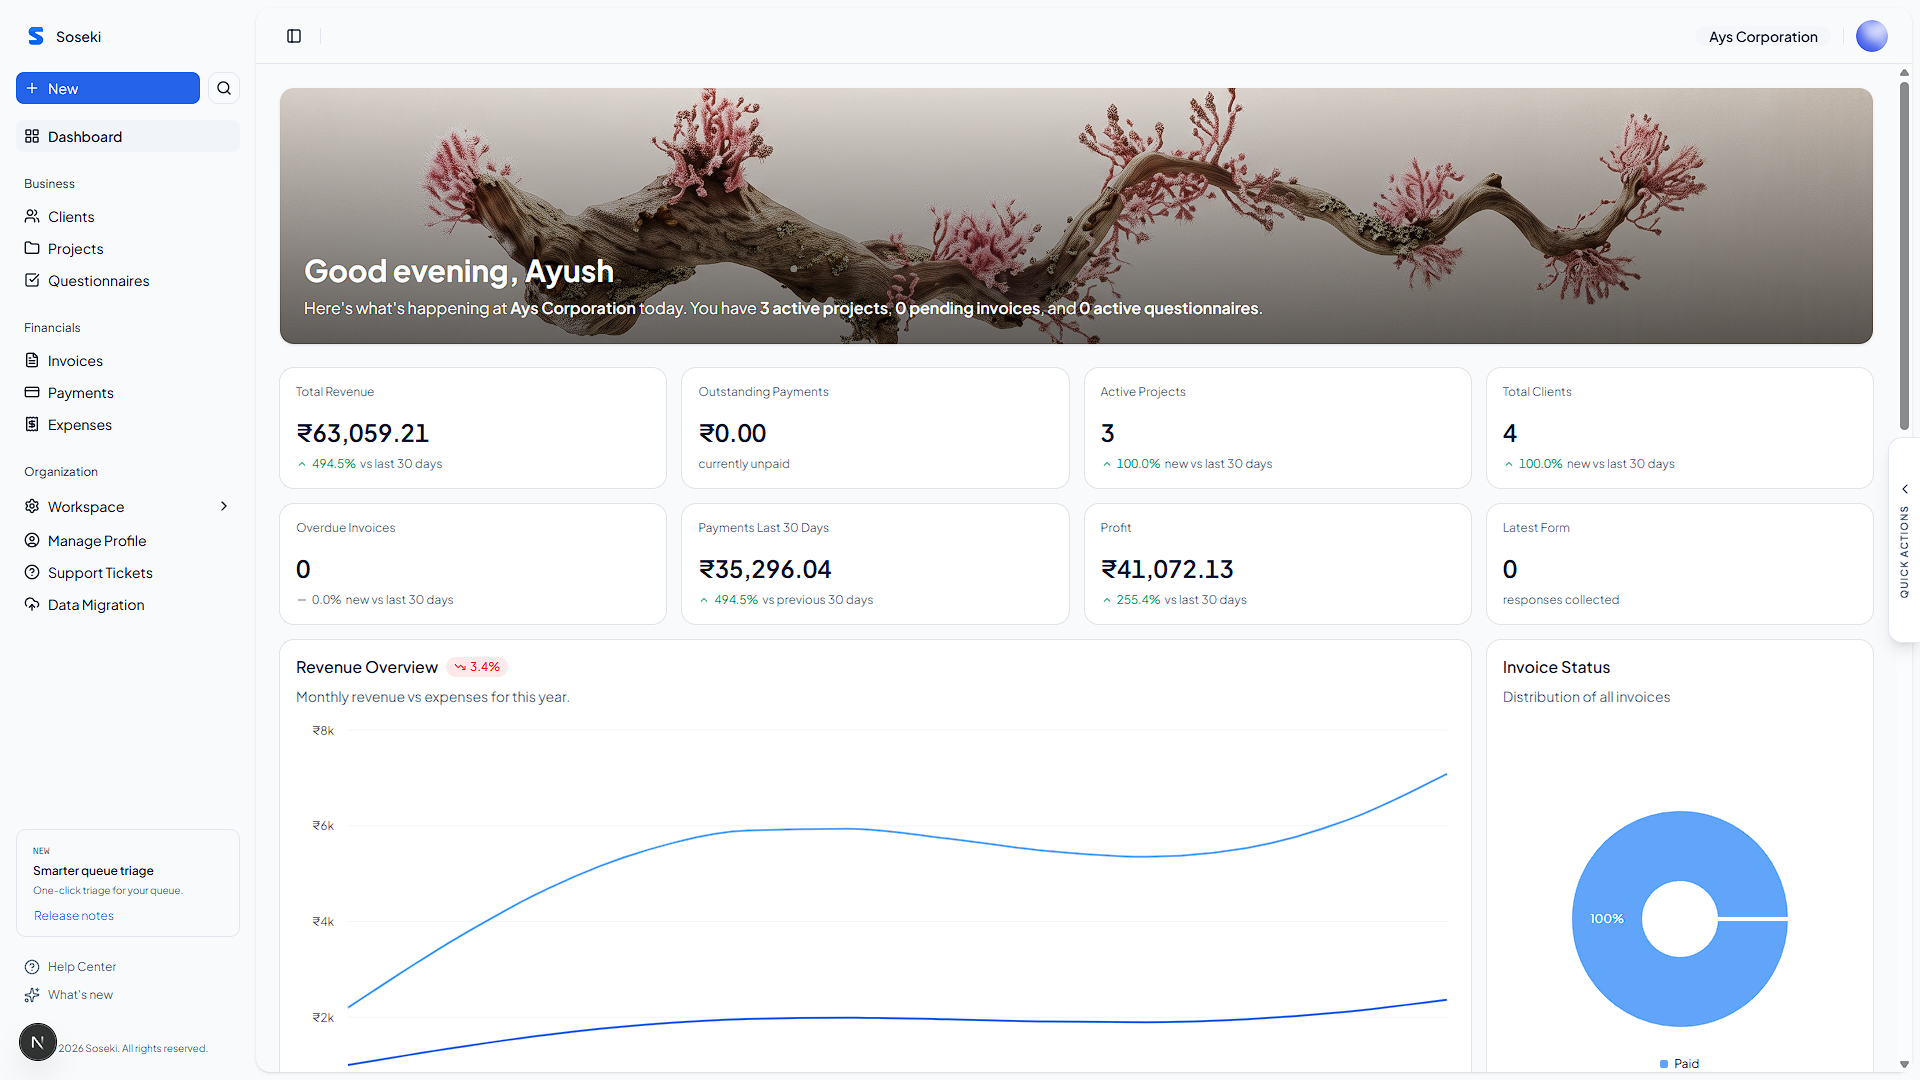
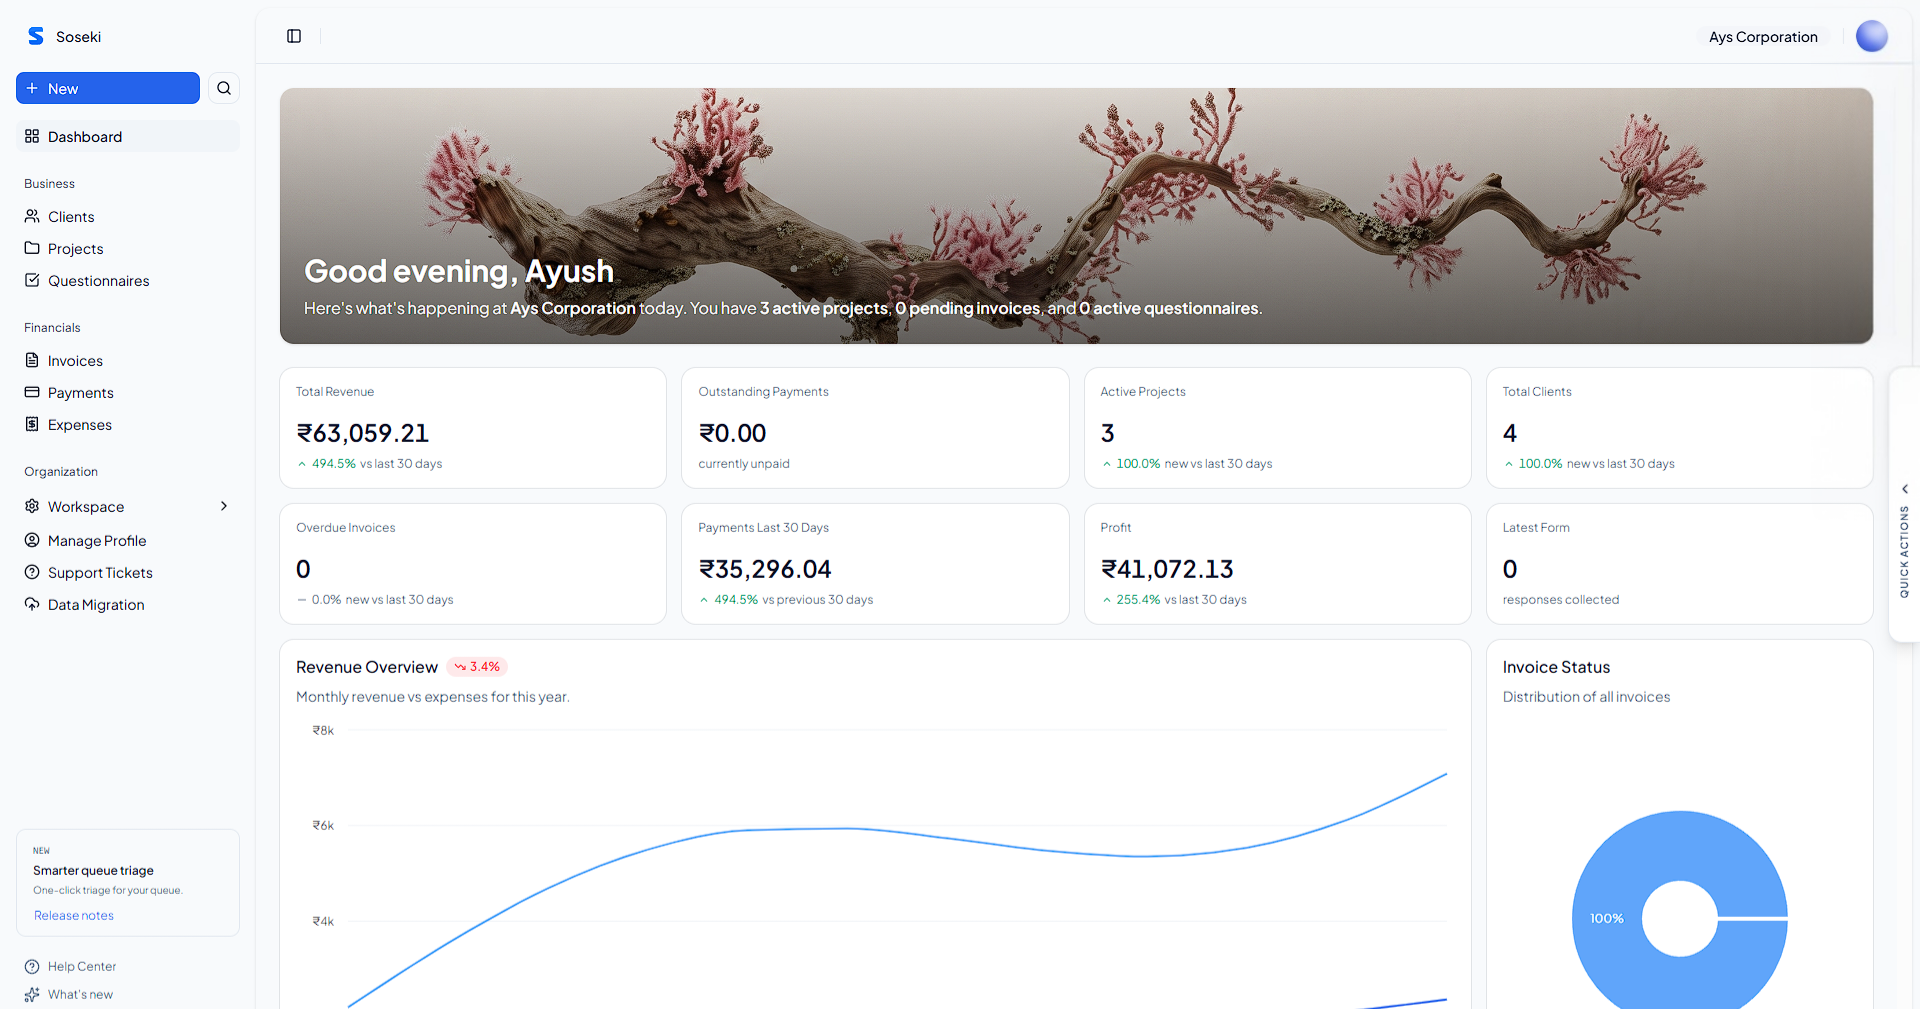
feat: implement landing page with hero section, responsive navigation, and modular components

diff --git a/frontend/src/components/mobile-nav.jsx b/frontend/src/components/mobile-nav.jsx
@@ -1,57 +1,107 @@
+"use client";
+
 import { cn } from "@/lib/utils";
-import React from "react";
-import { Button } from "@/components/ui/button";
-import { Portal, PortalBackdrop } from "@/components/portal";
+import React, { useEffect, useState } from "react";
+import { createPortal } from "react-dom";
+import { Button, buttonVariants } from "@/components/ui/button";
 import { navLinks } from "@/components/header";
 import { XIcon, MenuIcon } from "lucide-react";
+import { Logo } from "@/components/logo";
+import Link from "next/link";
 
 export function MobileNav() {
-	const [open, setOpen] = React.useState(false);
+  const [open, setOpen] = useState(false);
+  const [mounted, setMounted] = useState(false);
 
-	return (
-        <div className="md:hidden">
-            <Button
-                aria-controls="mobile-menu"
-                aria-expanded={open}
-                aria-label="Toggle menu"
-                className="md:hidden"
-                onClick={() => setOpen(!open)}
-                size="icon"
-                variant="outline">
-				{open ? (
-					<XIcon className="size-4.5" />
-				) : (
-					<MenuIcon className="size-4.5" />
-				)}
-			</Button>
-            {open && (
-				<Portal className="top-14" id="mobile-menu">
-					<PortalBackdrop />
-					<div
-                        className={cn(
-                            "data-[slot=open]:zoom-in-97 ease-out data-[slot=open]:animate-in",
-                            "size-full p-4"
-                        )}
-                        data-slot={open ? "open" : "closed"}>
-						<div className="grid gap-y-2">
-							{navLinks.map((link) => (
-								<Button
-                                    className="justify-start"
-                                    key={link.label}
-                                    variant="ghost"
-                                    render={<a href={link.href} />}
-                                    nativeButton={false}>{link.label}</Button>
-							))}
-						</div>
-						<div className="mt-12 flex flex-col gap-2">
-							<Button className="w-full" variant="outline">
-								Sign In
-							</Button>
-							<Button className="w-full">Get Started</Button>
-						</div>
-					</div>
-				</Portal>
-			)}
-        </div>
-    );
+  useEffect(() => {
+    setMounted(true);
+  }, []);
+
+  // Prevent scrolling when open
+  useEffect(() => {
+    if (open) {
+      document.body.style.overflow = "hidden";
+    } else {
+      document.body.style.overflow = "";
+    }
+    return () => {
+      document.body.style.overflow = "";
+    };
+  }, [open]);
+
+  return (
+    <div className="md:hidden">
+      <Button
+        aria-controls="mobile-menu"
+        aria-expanded={open}
+        aria-label="Toggle menu"
+        className="md:hidden"
+        onClick={() => setOpen(true)}
+        size="icon"
+        variant="ghost"
+      >
+        <MenuIcon className="size-5" />
+      </Button>
+
+      {open && mounted && createPortal(
+        <div className="fixed inset-0 z-[99999] flex items-center justify-center p-4 sm:p-6" id="mobile-menu">
+          {/* Backdrop */}
+          <div
+            className="absolute inset-0 z-40 bg-slate-900/20 backdrop-blur-sm animate-in fade-in duration-200"
+            onClick={() => setOpen(false)}
+          />
+
+          {/* Modal Card */}
+          <div
+            className="relative z-50 flex w-full max-w-sm flex-col overflow-hidden rounded-3xl bg-white shadow-2xl p-6 animate-in zoom-in-95 fade-in duration-200"
+          >
+            {/* Header */}
+            <div className="relative flex items-center justify-center mb-10">
+              <Logo className="h-7" />
+              <button
+                onClick={() => setOpen(false)}
+                className="absolute right-0 flex h-8 w-8 items-center justify-center text-slate-900 hover:bg-slate-100 rounded-full transition-colors"
+              >
+                <XIcon className="h-5 w-5" strokeWidth={2.5} />
+              </button>
+            </div>
+
+            {/* Links */}
+            <div className="relative flex flex-col items-center gap-6 pb-4">
+              {navLinks.map((link) => (
+                <Link
+                  key={link.label}
+                  href={link.href}
+                  onClick={() => setOpen(false)}
+                  className="text-lg font-medium text-slate-800 hover:text-blue-600 transition-colors"
+                >
+                  {link.label}
+                </Link>
+              ))}
+              
+              <Link
+                href="/login"
+                onClick={() => setOpen(false)}
+                className="text-lg font-medium text-slate-800 hover:text-blue-600 transition-colors"
+              >
+                Log In
+              </Link>
+
+              <Link 
+                href="/login" 
+                onClick={() => setOpen(false)}
+                className={cn(
+                  buttonVariants({ size: "lg", variant: "default" }),
+                  "mt-2 w-3/4 max-w-[200px] text-[17px] rounded-xl h-12 bg-blue-600 hover:bg-blue-700 shadow-sm"
+                )}
+              >
+                Get started
+              </Link>
+            </div>
+          </div>
+        </div>,
+        document.body
+      )}
+    </div>
+  );
 }

diff --git a/frontend/src/components/landing/hero-section.jsx b/frontend/src/components/landing/hero-section.jsx
@@ -5,17 +5,11 @@ import Image from "next/image";
 import { ArrowRight, Search } from "lucide-react";
 import { DynamicTime } from "@/components/dynamic-time";
 import { cn } from "@/lib/utils";
-import { motion } from "motion/react";
 
 export function HeroSection() {
   return (
     <main className="mx-auto max-w-5xl px-6 pt-24 pb-32 text-center flex flex-col items-center overflow-hidden">
-      <motion.div
-        initial={{ opacity: 0, y: 30 }}
-        animate={{ opacity: 1, y: 0 }}
-        transition={{ duration: 0.8, delay: 1.5, ease: "easeOut" }}
-        className="flex flex-col items-center w-full"
-      >
+      <div className="flex flex-col items-center w-full">
         <Link href="/docs" className="inline-flex items-center gap-2 px-3 py-1.5 rounded-full bg-slate-100 text-[13px] font-medium text-slate-600 hover:bg-slate-200 transition-colors mb-8">
           The open-source platform for freelancers and agencies <ArrowRight className="w-3.5 h-3.5" />
         </Link>
@@ -41,15 +35,10 @@ export function HeroSection() {
         <p className="text-[13px] text-slate-400 font-medium">
           For freelancers, consultants, and small agencies.
         </p>
-      </motion.div>
+      </div>
 
       {/* Dashboard Mockup exactly matching the layout style */}
-      <motion.div 
-        initial={{ opacity: 0, y: 60 }}
-        animate={{ opacity: 1, y: 0 }}
-        transition={{ duration: 1, delay: 1.7, ease: [0.16, 1, 0.3, 1] }}
-        className="mt-24 w-full max-w-[1100px] relative"
-      >
+      <div className="mt-24 w-full max-w-[1100px] relative">
         <Image 
           src="/dashboard.png" 
           alt="Soseki Dashboard Preview" 
@@ -58,7 +47,7 @@ export function HeroSection() {
           priority
           className="w-full rounded-2xl shadow-[0_8px_30px_rgb(0,0,0,0.12)] border border-slate-100 relative z-10 object-cover" 
         />
-      </motion.div>
+      </div>
     </main>
   );
 }

diff --git a/frontend/src/components/header.jsx b/frontend/src/components/header.jsx
@@ -2,7 +2,7 @@
 import { cn } from "@/lib/utils";
 import { Logo } from "@/components/logo";
 import { useScroll } from "@/hooks/use-scroll";
-import { Button } from "@/components/ui/button";
+import { Button, buttonVariants } from "@/components/ui/button";
 import { MobileNav } from "@/components/mobile-nav";
 import Link from "next/link";
 
@@ -52,17 +52,15 @@ export function Header() {
 				<div className="hidden items-center gap-2 md:flex">
 					<div>
 						{navLinks.map((link) => (
-							<Button asChild key={link.label} size="sm" variant="ghost" className="text-slate-600 font-medium">
-								<Link href={link.href}>{link.label}</Link>
-							</Button>
+							<Link key={link.label} href={link.href} className={cn(buttonVariants({ variant: "ghost", size: "sm" }), "text-slate-600 font-medium")}>
+								{link.label}
+							</Link>
 						))}
 					</div>
-					<Button asChild size="sm" variant="outline" className="ml-2">
-						<Link href="/login">Sign In</Link>
-					</Button>
-					<Button asChild size="sm">
-                        <Link href="/login">Get Started</Link>
-                    </Button>
+					
+					<Link href="/login" className={buttonVariants({ size: "sm" })}>
+                        Get Started
+                    </Link>
 				</div>
 				<MobileNav />
 			</nav>

diff --git a/frontend/src/app/page.js b/frontend/src/app/page.js
@@ -6,20 +6,17 @@ import { PricingSection } from "@/components/pricing-section";
 import { CallToAction } from "@/components/cta";
 import { Footer } from "@/components/footer";
 import { Header } from "@/components/header";
-import { GlobalLoader } from "@/components/global-loader";
 
 // New modular landing components
 import { HeroSection } from "@/components/landing/hero-section";
 import { GlobalBillingSection } from "@/components/landing/global-billing-section";
 import { ClientIntakeSection } from "@/components/landing/client-intake-section";
 import { FinancialClaritySection } from "@/components/landing/financial-clarity-section";
-import { ZeroLockinSection } from "@/components/landing/zero-lockin-section";
 
 export default function LandingPage() {
   return (
     <main>
-      {/* <GlobalLoader /> */}
-      <div className="min-h-screen bg-[#f3f8ff] text-[#09090b] font-sans selection:bg-blue-200 overflow-x-hidden">
+      <div className="min-h-screen bg-[#f3f8ff] text-[#09090b] font-sans selection:bg-blue-200 overflow-x-clip">
         <Header />
 
         <HeroSection />